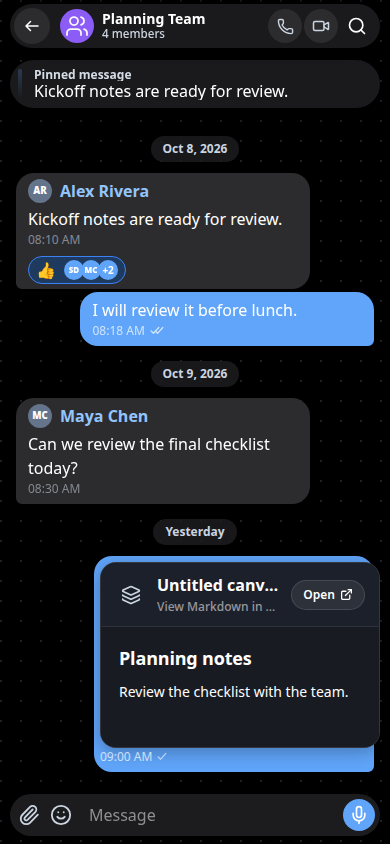
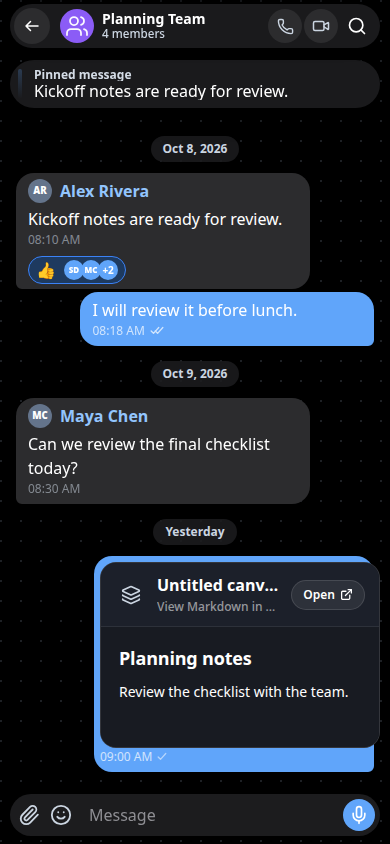
[Fix] remove mobile card glow

Changed region(s): [[0.2462, 0.6777, 0.9538, 0.8934]]

diff --git a/e2e/visual/mobile-layout.spec.ts b/e2e/visual/mobile-layout.spec.ts
@@ -29,6 +29,7 @@ test('V-14 file tiles form two 120px columns on a narrow phone',async({page},inf
  const second=await tiles.nth(1).boundingBox();
  expect(first).not.toBeNull();expect(second).not.toBeNull();
  expect(first!.width).toBe(120);expect(first!.height).toBe(120);
+ expect(await tiles.first().evaluate((node) => getComputedStyle(node).boxShadow)).toBe('none');
  expect(second!.width).toBe(120);expect(second!.y).toBe(first!.y);
  expect(second!.x-first!.x).toBeGreaterThanOrEqual(120);
  await screenshot(page,info,s);
@@ -45,6 +46,7 @@ test('V-15 canvas message preview is compact on a phone',async({page},info)=>{
  expect(cardBounds!.width).toBeLessThanOrEqual(280);
  expect(previewBounds!.height).toBeLessThanOrEqual(120);
  expect(cardBounds!.x + cardBounds!.width).toBeLessThanOrEqual(s.viewport.width);
+ expect(await card.evaluate((node) => getComputedStyle(node).boxShadow)).toBe('none');
  await screenshot(page,info,s);
 });
 
@@ -68,6 +70,7 @@ test('V-16 guest meeting actions stay distinct on a phone',async({page},info)=>{
   expect(joinStyle.backgroundColor).not.toBe(bubbleBackground);
   expect(planStyle.backgroundColor).not.toBe(bubbleBackground);
   expect(joinStyle.backgroundColor).not.toBe(planStyle.backgroundColor);
+  expect(await invitation.locator('.guest-meeting-invitation-icon').evaluate((node) => getComputedStyle(node).boxShadow)).toBe('none');
  }
  await screenshot(page,info,s);
 });

diff --git a/frontend/src/features/chats/conversation/MessageBubble.test.tsx b/frontend/src/features/chats/conversation/MessageBubble.test.tsx
@@ -37,6 +37,7 @@ describe("guest meeting invitation visual hierarchy", () => {
     const outgoingRule = conversationStyles.match(/\.message-bubble\.mine \.guest-meeting-invitation\s*\{([^}]*)\}/)?.[1] ?? "";
     const copyRule = conversationStyles.match(/\.guest-meeting-invitation-copy\s*\{([^}]*)\}/)?.[1] ?? "";
     const joinRule = conversationStyles.match(/\.guest-meeting-invitation-join\s*\{([^}]*)\}/)?.[1] ?? "";
+    const iconRule = conversationStyles.match(/\.guest-meeting-invitation-icon\s*\{([^}]*)\}/)?.[1] ?? "";
     const outgoingJoinRule = conversationStyles.match(/\.message-bubble\.mine \.guest-meeting-invitation-join\s*\{([^}]*)\}/)?.[1] ?? "";
     const planRule = conversationStyles.match(/\.guest-meeting-invitation-plan\s*\{([^}]*)\}/)?.[1] ?? "";
 
@@ -49,6 +50,7 @@ describe("guest meeting invitation visual hierarchy", () => {
     expect(joinRule).toMatch(/border-radius:\s*var\(--radius-pill\)/);
     expect(outgoingJoinRule).toMatch(/background:\s*var\(--color-palette-f2074b6cef37\)/);
     expect(joinRule).toMatch(/min-height:\s*44px/);
+    expect(iconRule).toMatch(/box-shadow:\s*none/);
     expect(planRule).toMatch(/background:\s*var\(--color-palette-db0c497d2782\)/);
     expect(planRule).toMatch(/border-radius:\s*var\(--radius-pill\)/);
   });

diff --git a/frontend/src/pages/FilesPage.storage-preview.test.ts b/frontend/src/pages/FilesPage.storage-preview.test.ts
@@ -10,6 +10,12 @@ function rule(selector: string): string {
 }
 
 describe("storage video preview sizing", () => {
+  it("keeps file tiles flat while retaining a selected border", () => {
+    const selectedTileRule = styles.match(/\.storage-page \.storage-tile\.selected,\s*\.storage-page \.storage-tile\.selected:hover,\s*\.storage-page \.storage-tile\.selected:focus,\s*\.storage-page \.storage-tile\.selected:focus-visible\s*\{([^}]*)\}/)?.[1] ?? "";
+    expect(selectedTileRule).toContain("border-color:");
+    expect(selectedTileRule).toContain("box-shadow: none !important;");
+  });
+
   it("opens the selected file against the right edge with media-sized bounds", () => {
     expect(rule(".storage-page .storage-preview-backdrop")).toContain("place-items: center end;");
     expect(styles).not.toMatch(/\.storage-page:has\(\.storage-tile\.selected\) \.storage-layout\s*\{[^}]*grid-template-columns:[^}]*minmax\(380px/);

diff --git a/frontend/src/styles/storage-canvas-and-checklist-previews.css b/frontend/src/styles/storage-canvas-and-checklist-previews.css
@@ -379,7 +379,7 @@
 .storage-page .storage-tile.selected:focus-visible {
   background: inherit;
   border-color: var(--color-palette-b93c380e90f2) !important;
-  box-shadow: 0 0 0 2px var(--color-palette-b93c380e90f2) !important;
+  box-shadow: none !important;
   filter: none;
   outline: 0 !important;
   transform: none;
@@ -953,12 +953,12 @@ span.canvas-md-image { background: var(--color-palette-c34f5a2a4d80); border-rad
   width: 100%;
   max-width: 100%;
   box-sizing: border-box;
-  transition: border-color 0.18s, box-shadow 0.18s;
-  box-shadow: 0 4px 18px var(--color-palette-0bf61dd701cd);
+  transition: border-color 0.18s;
+  box-shadow: none;
 }
 .canvas-card-bubble:hover {
   border-color: var(--color-palette-e0d084e83ad2);
-  box-shadow: 0 6px 24px var(--color-palette-a95460aad32a);
+  box-shadow: none;
 }
 .canvas-card-bubble-header {
   display: flex;

diff --git a/frontend/src/features/chats/conversation/CanvasCardBubble.size.test.ts b/frontend/src/features/chats/conversation/CanvasCardBubble.size.test.ts
@@ -5,6 +5,8 @@ const rule = (selector: string) => { const start = styles.indexOf(`${selector} {
 it("matches document message width and preview aspect ratio", () => {
   expect(rule(".message-bubble:has(.canvas-card-bubble)")).toContain("width: min(560px, calc(100vw - 48px));");
   expect(rule(".canvas-card-bubble")).toContain("max-width: 100%;");
+  expect(rule(".canvas-card-bubble")).toContain("box-shadow: none;");
+  expect(rule(".canvas-card-bubble:hover")).toContain("box-shadow: none;");
   expect(rule(".canvas-card-bubble-preview")).toContain("aspect-ratio: 16 / 9;");
   expect(rule(".canvas-card-bubble-preview")).toContain("min-height: 0;");
 });

diff --git a/frontend/src/styles/composer-and-message-editing.css b/frontend/src/styles/composer-and-message-editing.css
@@ -1294,7 +1294,7 @@
   background: linear-gradient(145deg, color-mix(in oklab, var(--accent-primary) 78%, var(--color-palette-68cd6cc8cd4a)), color-mix(in oklab, var(--accent-primary) 84%, var(--color-palette-109a5bc93425)));
   border: 1px solid var(--color-palette-e84c9c36bb12);
   border-radius: var(--radius-surface);
-  box-shadow: 0 8px 18px color-mix(in oklab, var(--accent-primary) 32%, transparent);
+  box-shadow: none;
   color: var(--color-palette-f2074b6cef37);
   display: inline-flex;
   height: 50px;
